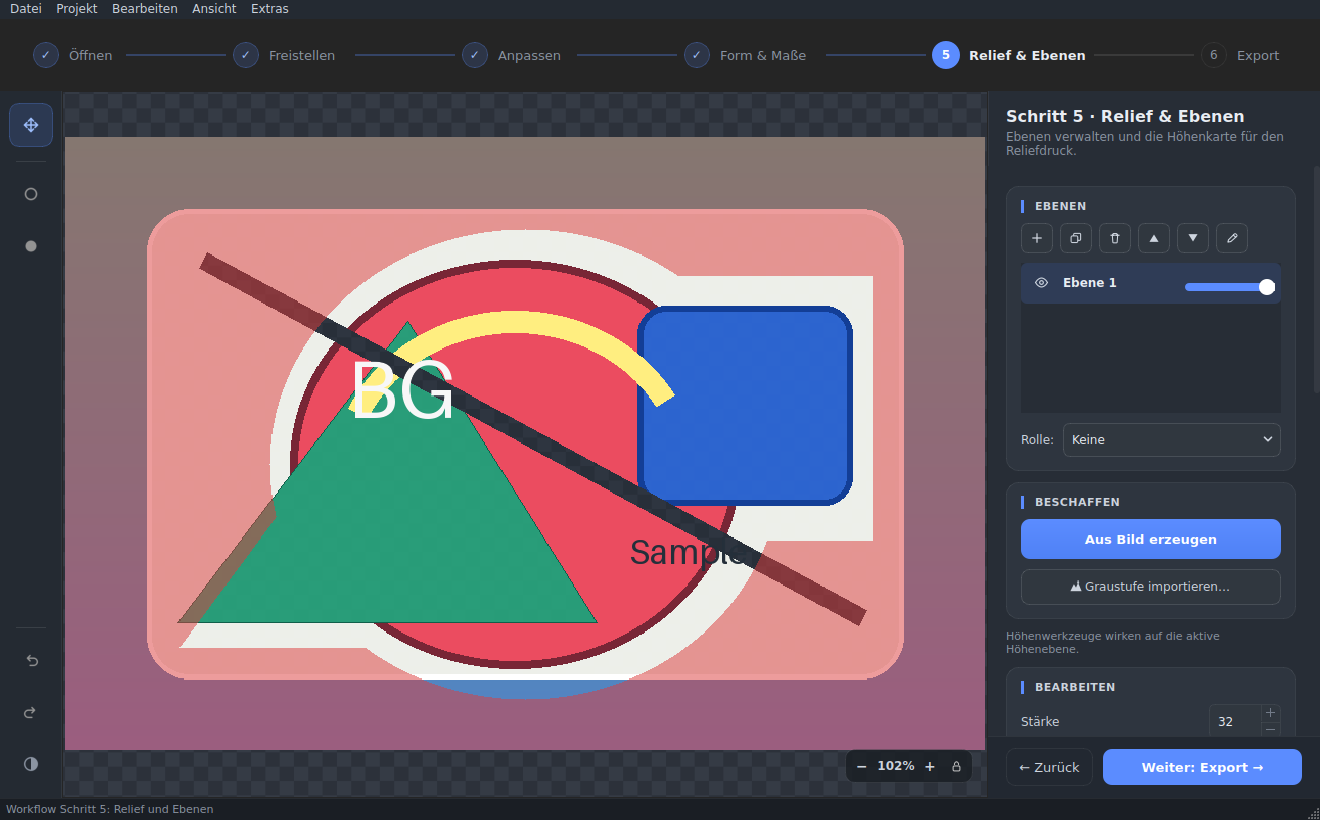
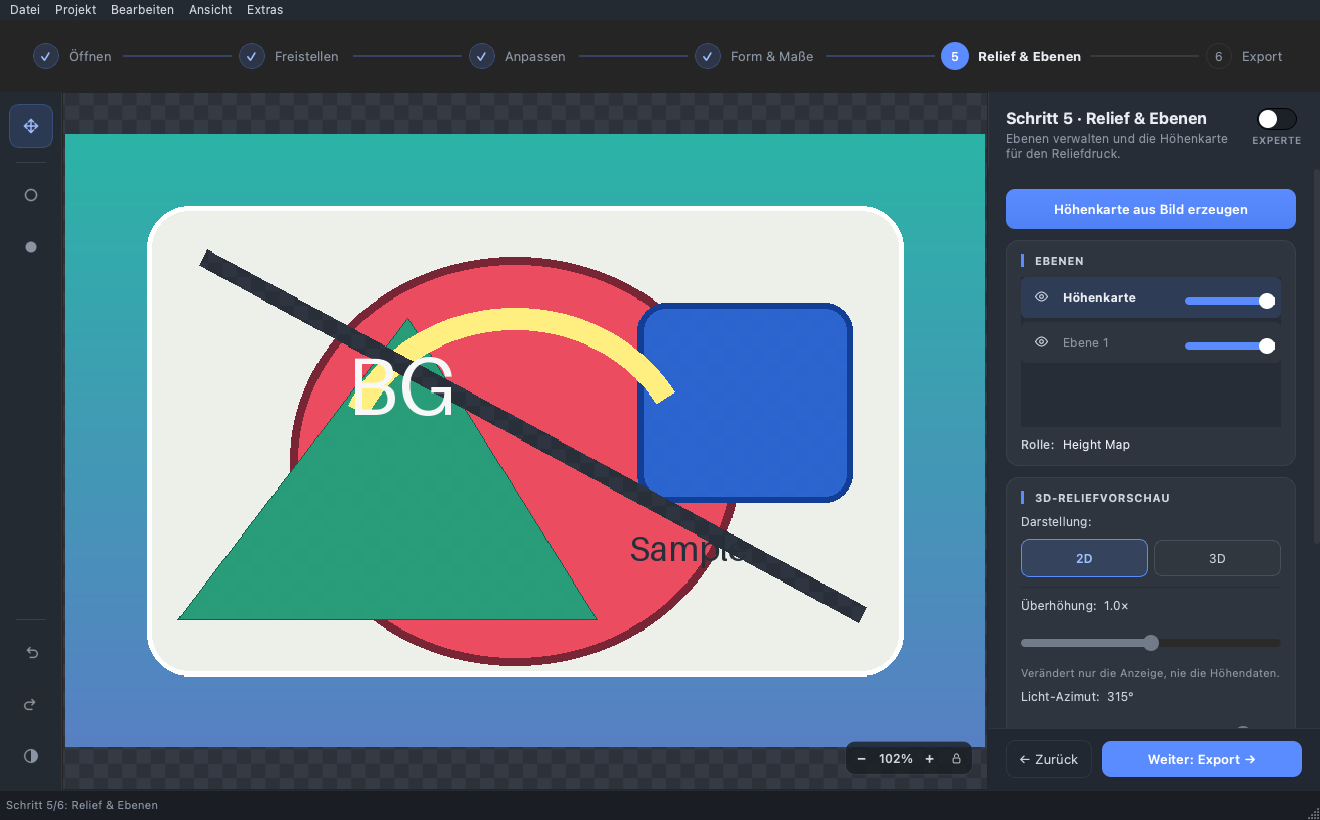
Review-Folgebefunde vollständig beheben

diff --git a/tests/test_app_smoke.py b/tests/test_app_smoke.py
@@ -210,9 +210,8 @@ def test_bundled_launcher_uses_app_data_log_path():
 def test_mac_bundle_refreshes_existing_app_venv_from_checkout():
     """Ein erneuter Build darf nicht still die alte Paketkopie weiterverwenden."""
     text = (ROOT / "create_BgRemover_app.sh").read_text(encoding="utf-8")
-    ready_branch = text[text.index('if [ -n "$APP_VENV_READY" ]'):text.index(
-        'elif [ -x "$VENV_PY" ]'
-    )]
+    branch_start = text.index('if [ -n "$APP_VENV_READY" ]')
+    ready_branch = text[branch_start:text.index("\nelif ", branch_start)]
 
     assert 'Aktualisiere App-venv aus aktuellem Checkout' in ready_branch
     assert 'install_app_project "App-venv aktualisiert"' in ready_branch
@@ -267,6 +266,44 @@ def test_mac_bundle_embeds_interpreter_for_process_attribution():
     # Greift der Laufzeit-Fallback, degradiert die App nicht still: die
     # Rückkehr des Python-Icons steht belegbar im Log.
     assert "Eingebetteter Interpreter nicht lauffaehig" in text
+
+
+def test_mac_bundle_detects_and_repairs_rosetta_app_venv():
+    """#866: Hardware-Architektur darf nicht aus einem Rosetta-``uname``
+    abgeleitet werden. Eine x86_64-App-venv auf Apple Silicon wird klar
+    benannt und nur nach Nutzerentscheidung nativ neu gebaut; der Launcher
+    protokolliert anschließend Interpreter-Arch und Übersetzungsstatus."""
+    text = (ROOT / "create_BgRemover_app.sh").read_text(encoding="utf-8")
+
+    assert "/usr/sbin/sysctl -n hw.optional.arm64" in text
+    assert "supports_native_arch" in text
+    assert "Architektur-Mismatch: Apple-Silicon-Hardware" in text
+    assert "App-venv jetzt mit nativem arm64-Python neu bauen? [J/n]" in text
+    assert 'FORCE_NATIVE_REBUILD=1' in text
+    assert 'supports_native_arch "$FULL_PATH" || continue' in text
+    assert "sysctl.proc_translated" in text
+    assert "interpreter_arch=\\$PYTHON_ARCH" in text
+    assert "proc_translated=\\$PYTHON_TRANSLATED" in text
+    assert "hardware_arch=\\$NATIVE_ARCH" in text
+
+
+def test_mac_diagnostics_report_hardware_binary_and_runtime_architectures():
+    """Die read-only Diagnose benennt den Mismatch und seine Abhilfe, statt
+    ``uname -m`` irrtümlich als Hardware- oder Python-Arch auszugeben."""
+    text = (ROOT / "diagnose_mac.sh").read_text(encoding="utf-8")
+
+    for marker in (
+        "/usr/sbin/sysctl -n hw.optional.arm64",
+        "hardware_arch:",
+        "diagnose_process_arch:",
+        "proc_translated:",
+        "BEFUND: ARCHITEKTUR-MISMATCH",
+        "runtime_arch:",
+        "/usr/bin/file",
+        "brew install python",
+        'rm -rf \\"$HOME/Library/Application Support/BgRemover/venv\\"',
+    ):
+        assert marker in text
 
 
 def test_mac_bundle_document_types_cover_supported_formats():

diff --git a/tests/test_i18n_docs.py b/tests/test_i18n_docs.py
@@ -266,6 +266,32 @@ def test_mac_install_docs_cover_prebuilt_dmg_scope() -> None:
         )
 
 
+def test_mac_install_docs_cover_rosetta_mismatch_recovery() -> None:
+    """Alle sechs Anleitungen halten Diagnose, Abhilfe und Zielzustand aus
+    #866 zusammen; sonst würde eine Übersetzung den kritischen Neuaufbaupfad
+    oder die überprüfbare Log-Evidenz verlieren."""
+    required_markers = (
+        "x86_64",
+        "arm64",
+        "Rosetta",
+        "sysctl.proc_translated",
+        "platform.machine()",
+        "`file`",
+        "brew install python",
+        'rm -rf "$HOME/Library/Application Support/BgRemover/venv"',
+        "bash create_BgRemover_app.sh",
+        "interpreter_arch=arm64",
+        "proc_translated=0",
+    )
+    for path in _all_language_paths("INSTALL_MAC.md"):
+        text = _read(path)
+        matching_sections = _h2_sections_containing(text, *required_markers)
+        assert len(matching_sections) == 1, (
+            f"{path.relative_to(ROOT)} must document Rosetta detection, native "
+            "venv rebuild, and runtime log evidence together"
+        )
+
+
 def test_i18n_docs_match_canonical_structure() -> None:
     for name in DOC_NAMES:
         canonical_text = _read(ROOT / name)

diff --git a/tests/test_release_freeze.py b/tests/test_release_freeze.py
@@ -136,6 +136,9 @@ def test_every_relevant_rule_has_a_covered_sample() -> None:
         "docs/history/ADR-2026-release-abnahme-automatisierung.md",
         "docs/history/ADR-2026-release-manifest-publish.md",
         "docs/history/ADR-2026-clamav-signaturcache.md",
+        "create_BgRemover_app.sh",
+        "diagnose_mac.sh",
+        "docs/UX_3D_PREVIEW.md",
     ],
 )
 def test_known_release_inputs_are_explicitly_candidate_relevant(path: str) -> None:

diff --git a/docs/i18n/zh/CHANGELOG.md b/docs/i18n/zh/CHANGELOG.md
@@ -27,6 +27,11 @@ BgRemover 的所有值得注意的变更都记录在本文件中。
 - **标准模式和步骤切换均未丢弃处于激活状态的高度优化预览 (#839)。** 在"优化"卡片展开且存在未应用的实时预览时从专家模式切换到标准模式，或离开"浮雕"步骤，预览仍会显示在画布上，尽管应用/放弃控件已不可用——此时保存/EufyMake 导出会导出未更改的模型。现在这两条路径都会可靠地丢弃预览，与手动收起时的行为一致。
 - **应用切换器和 Stage Manager 侧边栏中的进程图标错误（macOS）。** Dock 显示的是 `.app` 包的正确图标，但显示正在运行进程图标的界面（应用切换器、Stage Manager 侧边栏）却显示 venv 解释器的 Python 火箭图标，因为应用在运行时从未设置应用程序图标。应用图标现在作为包数据随附，并在启动时通过 `QApplication.setWindowIcon` 设置——这同样有助于没有 `.desktop` 关联的 Linux 任务栏。
 - **尽管设置了运行时图标，应用切换器/Stage Manager 仍显示 Python 火箭（macOS 应用包）。** #864 的后续修复：在 framework Python 上，venv 存根会重新执行 `Python.framework/…/Python.app` 中的真实解释器二进制文件——因此 macOS 将 GUI 进程归属于 `Python.app`，这些界面显示的是该包的图标，而不是通过 `setWindowIcon` 设置的图标。`create_BgRemover_app.sh` 现在将真实二进制文件的副本作为 `Contents/MacOS/BgRemoverPython` 嵌入应用包，并以指向 venv 存根的 `__PYVENV_LAUNCHER__` 启动它（与存根自身使用的机制相同）：进程以 `BgRemover.app` 的身份运行（图标和菜单栏名称），venv 上下文保持完全一致。构建时自检和运行时回退到 venv 启动可在无法嵌入时保持现状。
+- **macOS 应用在 Apple Silicon 上曾悄然以 x86_64 方式通过 Rosetta 运行
+  (#866)。** Setup 和启动器现在可独立于转译 shell 识别硬件架构。检测到
+  x86_64 应用 venv 时会明确提示，并仅在确认后进行原生重建；启动日志与
+  `diagnose_mac.sh` 会分别显示实际解释器架构、`sysctl.proc_translated` 和
+  二进制架构。
 
 ## [2.8.0] – 2026-08-16
 

diff --git a/docs/i18n/uk/INSTALL_MAC.md b/docs/i18n/uk/INSTALL_MAC.md
@@ -170,6 +170,21 @@ Editable-встановлення (`pip install -e`) **не** потрібно
   brew install python
   bash create_BgRemover_app.sh   # підтвердьте запит про venv клавішею Enter
   ```
+- **Застосунок працює на Apple Silicon, але запускається як `x86_64` під
+  Rosetta** → лише `uname -m` не є надійною діагностикою: у трансльованому
+  процесі він показує `x86_64`, хоча апаратна архітектура — `arm64`.
+  `bash diagnose_mac.sh` тому окремо показує апаратну архітектуру,
+  `sysctl.proc_translated`, архітектури бінарних файлів через `file` і
+  `platform.machine()` Python застосунку. Якщо `create_BgRemover_app.sh`
+  виявляє x86_64-venv на Apple Silicon, він попереджає та пропонує нативну
+  перебудову до будь-якого видалення. Еквівалентне ручне відновлення:
+  ```bash
+  brew install python
+  rm -rf "$HOME/Library/Application Support/BgRemover/venv"
+  bash create_BgRemover_app.sh
+  ```
+  Наступний рядок запуску в `bgremover.log` має містити
+  `interpreter_arch=arm64` і `proc_translated=0`.
 - **Побачити помилку напряму (ручна діагностика)** → Запустіть лаунчер у терміналі,
   тоді з'явиться справжнє повідомлення про помилку:
   ```bash

diff --git a/TESTING.md b/TESTING.md
@@ -99,7 +99,7 @@ Im Projektordner (venv aktiv):
 |--------------|---------------------------------------------------------------------------|
 | `make install-test` | Installiert das Paket nicht-editable mit `[test]` und `requirements/constraints.txt` in das Test-venv |
 | `make doctor` | Prüft Python-Version, Test-Abhängigkeiten, Paketinstallation, Console-Script und Qt-`offscreen` |
-| `make pr-check` | **Schnelle PR-Prüfung:** `install-test` + `doctor` + `ruff` + `mypy` + `pytest` (volle UI-Suite ausgeschlossen, `ui_smoke` läuft mit) |
+| `make pr-check` | **PR-Prüfung:** `install-test` + `doctor` + `ruff` + `mypy` + `pytest` (volle UI-Suite ausgeschlossen, `ui_smoke` läuft mit) + fail-closed Release-Pfadklassifikation |
 | `make check` | Schnelle Wiederholung ohne Neuinstallation/Doctor: `ruff` + `mypy` + `pytest` |
 | `make ui`    | Volle lokale UI-Interaktionssuite inkl. `ui_smoke`                         |
 | `make all`   | Alles zusammen (`check` + `ui`)                                            |
@@ -120,6 +120,11 @@ Empfohlener Ablauf vor einem Release:
 ```bash
 make all
 ```
+
+Für `make pr-check` müssen der Basis-Tag und die Git-Historie lokal vorhanden
+sein; die PR-CI checkt sie deshalb mit `fetch-depth: 0` aus. So blockiert ein
+neuer, noch nicht bewusst klassifizierter Pfad bereits den verursachenden PR
+statt erst den späteren Release-Lauf.
 
 Alles grün ⇒ der Stand entspricht lokal den automatischen PR-Prüfungen;
 `make all` deckt zusätzlich die bewusst lokalen UI-Interaktionstests ab.

diff --git a/docs/i18n/es/INSTALL_MAC.md b/docs/i18n/es/INSTALL_MAC.md
@@ -174,6 +174,21 @@ automáticamente la copia del paquete en el venv dedicado de la app.
   brew install python
   bash create_BgRemover_app.sh   # confirma la pregunta del venv con Enter
   ```
+- **La app funciona en Apple Silicon, pero se ejecuta como `x86_64` bajo
+  Rosetta** → `uname -m` por sí solo no es un diagnóstico fiable: dentro de
+  un proceso traducido indica `x86_64` aunque el hardware sea `arm64`.
+  `bash diagnose_mac.sh` muestra por separado la arquitectura del hardware,
+  `sysctl.proc_translated`, las arquitecturas binarias mediante `file` y el
+  `platform.machine()` del Python de la app. Si `create_BgRemover_app.sh`
+  detecta un venv x86_64 en Apple Silicon, avisa y ofrece reconstruirlo de
+  forma nativa antes de borrar nada. La recuperación manual equivalente es:
+  ```bash
+  brew install python
+  rm -rf "$HOME/Library/Application Support/BgRemover/venv"
+  bash create_BgRemover_app.sh
+  ```
+  La siguiente línea de inicio en `bgremover.log` debe mostrar
+  `interpreter_arch=arm64` y `proc_translated=0`.
 - **Ver el error directamente (diagnóstico manual)** → Inicia el
   launcher en el terminal; entonces aparece el mensaje de error real:
   ```bash

diff --git a/docs/i18n/fr/INSTALL_MAC.md b/docs/i18n/fr/INSTALL_MAC.md
@@ -173,6 +173,22 @@ le venv dédié à l'application.
   brew install python
   bash create_BgRemover_app.sh   # confirmer l'invite venv avec Entrée
   ```
+- **L'application fonctionne sur Apple Silicon mais s'exécute en `x86_64`
+  sous Rosetta** → `uname -m` seul n'est pas un diagnostic fiable : dans un
+  processus traduit, il indique `x86_64` alors que le matériel est `arm64`.
+  `bash diagnose_mac.sh` affiche donc séparément l'architecture matérielle,
+  `sysctl.proc_translated`, les architectures binaires via `file` et le
+  `platform.machine()` du Python de l'application. Si
+  `create_BgRemover_app.sh` détecte un venv x86_64 sur Apple Silicon, il
+  avertit et propose une reconstruction native avant toute suppression. La
+  récupération manuelle équivalente est :
+  ```bash
+  brew install python
+  rm -rf "$HOME/Library/Application Support/BgRemover/venv"
+  bash create_BgRemover_app.sh
+  ```
+  La prochaine ligne de démarrage dans `bgremover.log` doit indiquer
+  `interpreter_arch=arm64` et `proc_translated=0`.
 - **Voir l'erreur directement (diagnostic manuel)** → lancer le lanceur dans le terminal,
   le vrai message d'erreur apparaît alors :
   ```bash

diff --git a/docs/history/ISSUE-841-VERIFIKATION.md b/docs/history/ISSUE-841-VERIFIKATION.md
@@ -83,11 +83,12 @@ wurde, nie was geleistet wurde. Deshalb aus
 [#828](https://github.com/NikolayDA/picture_helper/issues/828) als sechste,
 bewusst nicht maschinell prüfbare Bedingung (Punkt 4 verweist hierher):
 
-> Ein Lauf zählt nur, wenn er auch etwas geliefert hat: mindestens eine
-> Zusammenfassung als PR-Kommentar mit konkretem Bezug zum Diff, und
-> Inline-Befunde, sofern der Diff welche hergibt. Ein ablehnungsfreier Lauf
-> ohne Befunde und ohne nachvollziehbare Prüfung zählt nicht als grün, sondern
-> gar nicht.
+> Ein Lauf besteht die qualitative Hälfte nur, wenn er auch etwas geliefert
+> hat: mindestens eine Zusammenfassung als PR-Kommentar mit konkretem Bezug
+> zum Diff, und Inline-Befunde, sofern der Diff welche hergibt. Jeder reale
+> Lauf belegt unverändert genau einen Stichprobenplatz; ein Lauf ohne Befunde
+> und ohne nachvollziehbare Prüfung wird **rot – qualitative Hälfte nicht
+> erfüllt**, statt aus der festen Stichprobe herauszufallen.
 
 Der Anlass war konkret: Der Prompt in `.github/workflows/claude-code-review.yml`
 war mit #850 von rund 40 auf über 100 Zeilen gewachsen, der Zuwachs fast

diff --git a/INSTALL_MAC.md b/INSTALL_MAC.md
@@ -171,6 +171,21 @@ die nicht-editierbare Paketkopie in der App-venv automatisch.
   brew install python
   bash create_BgRemover_app.sh   # venv-Abfrage mit Enter bestätigen
   ```
+- **App funktioniert auf Apple Silicon, läuft aber als `x86_64` unter
+  Rosetta** → `uname -m` allein ist keine verlässliche Diagnose: In einem
+  übersetzten Prozess meldet es `x86_64`, obwohl die Hardware `arm64` ist.
+  `bash diagnose_mac.sh` zeigt deshalb Hardware-Architektur,
+  `sysctl.proc_translated`, die Binär-Architekturen via `file` und
+  `platform.machine()` des App-Pythons getrennt an. Erkennt
+  `create_BgRemover_app.sh` eine x86_64-App-venv auf Apple Silicon, warnt es
+  und bietet vor dem Löschen den nativen Neuaufbau an. Manuell entspricht das:
+  ```bash
+  brew install python
+  rm -rf "$HOME/Library/Application Support/BgRemover/venv"
+  bash create_BgRemover_app.sh
+  ```
+  Die nächste Startzeile in `bgremover.log` muss
+  `interpreter_arch=arm64` und `proc_translated=0` ausweisen.
 - **Fehler direkt sehen (manuelle Diagnose)** → Launcher im Terminal
   starten, dann erscheint die echte Fehlermeldung:
   ```bash

diff --git a/docs/i18n/zh/INSTALL_MAC.md b/docs/i18n/zh/INSTALL_MAC.md
@@ -165,6 +165,20 @@ git checkout <branch> && git pull      # 更新某个特定分支
   brew install python
   bash create_BgRemover_app.sh   # venv 询问按 Enter 确认
   ```
+- **应用可在 Apple Silicon 上运行，但以 `x86_64` 方式通过 Rosetta
+  执行** → 仅看 `uname -m` 并不可靠：在转译进程中它会显示 `x86_64`，
+  即使硬件实际为 `arm64`。因此 `bash diagnose_mac.sh` 会分别显示硬件
+  架构、`sysctl.proc_translated`、通过 `file` 获取的二进制架构，以及应用
+  Python 的 `platform.machine()`。如果 `create_BgRemover_app.sh` 在 Apple
+  Silicon 上检测到 x86_64 应用 venv，它会先警告并提供原生重建选项，
+  不会直接删除。等效的手动恢复步骤为：
+  ```bash
+  brew install python
+  rm -rf "$HOME/Library/Application Support/BgRemover/venv"
+  bash create_BgRemover_app.sh
+  ```
+  `bgremover.log` 中下一条启动记录必须显示 `interpreter_arch=arm64` 和
+  `proc_translated=0`。
 - **直接查看错误（手动诊断）** → 在终端中启动
   启动器，这样就会出现真实的错误消息：
   ```bash

diff --git a/docs/i18n/en/INSTALL_MAC.md b/docs/i18n/en/INSTALL_MAC.md
@@ -170,6 +170,21 @@ non-editable package copy in the app venv.
   brew install python
   bash create_BgRemover_app.sh   # confirm the venv prompt with Enter
   ```
+- **The app works on Apple Silicon but runs as `x86_64` under Rosetta** →
+  `uname -m` alone is not a reliable diagnosis: inside a translated process
+  it reports `x86_64` even though the hardware is `arm64`.
+  `bash diagnose_mac.sh` therefore reports hardware architecture,
+  `sysctl.proc_translated`, binary architectures via `file`, and the app
+  Python's `platform.machine()` separately. If `create_BgRemover_app.sh`
+  detects an x86_64 app venv on Apple Silicon, it warns and offers a native
+  rebuild before deleting anything. The equivalent manual recovery is:
+  ```bash
+  brew install python
+  rm -rf "$HOME/Library/Application Support/BgRemover/venv"
+  bash create_BgRemover_app.sh
+  ```
+  The next startup line in `bgremover.log` must show
+  `interpreter_arch=arm64` and `proc_translated=0`.
 - **See the error directly (manual diagnosis)** → Start the launcher in
   the terminal, then the real error message appears:
   ```bash
